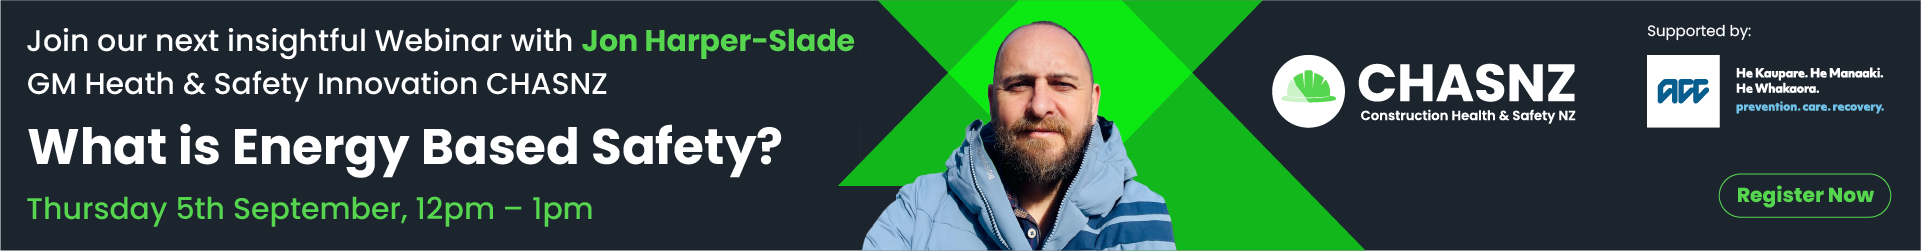
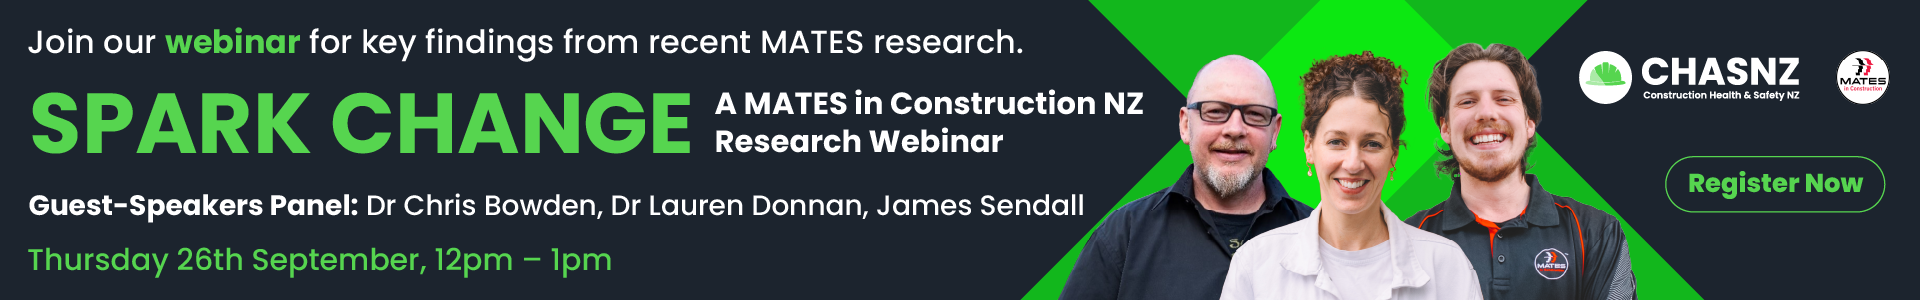
push

diff --git a/components/home/Header.tsx b/components/home/Header.tsx
@@ -17,12 +17,12 @@ const Header = () => {
         </div>
         </div>
 
-        {/* <div className="content-wrapper">
+        <div className="content-wrapper">
           <div className="banner-image w-full flex items-center justify-center mt-12">
-            <Link href="/events/what-is-energy-based-safety"><Image src="/common/webinar.png" className='hidden invisible lg:block lg:visible' alt="banner image" width={1920} height={150} /></Link>
-            <Link href="/events/what-is-energy-based-safety"><Image src="/common/webinar-mobile.png" className='block visible lg:invisible lg:hidden' alt="banner image" width={1920} height={150} /></Link>
+            <Link href="/events/spark-change-a-mates-in-construction-nz-research-webinar"><Image src="/common/webinar.png" className='hidden invisible lg:block lg:visible' alt="banner image" width={1920} height={150} /></Link>
+            <Link href="/events/spark-change-a-mates-in-construction-nz-research-webinar"><Image src="/common/webinar.png" className='block visible lg:invisible lg:hidden' alt="banner image" width={1920} height={150} /></Link>
           </div>
-        </div> */}
+        </div>
         
     </div>
   )
